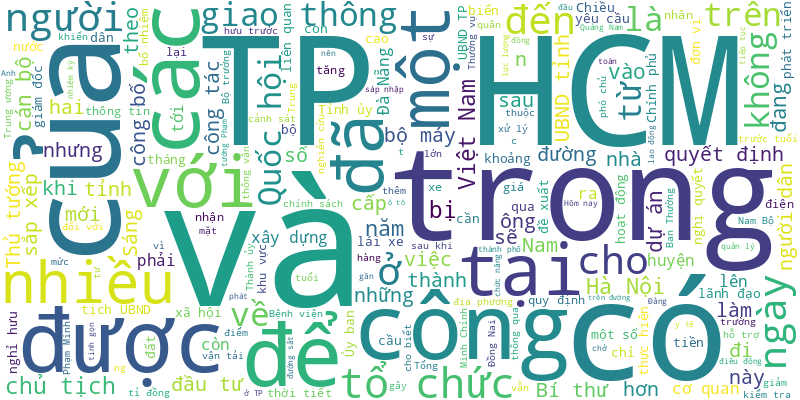
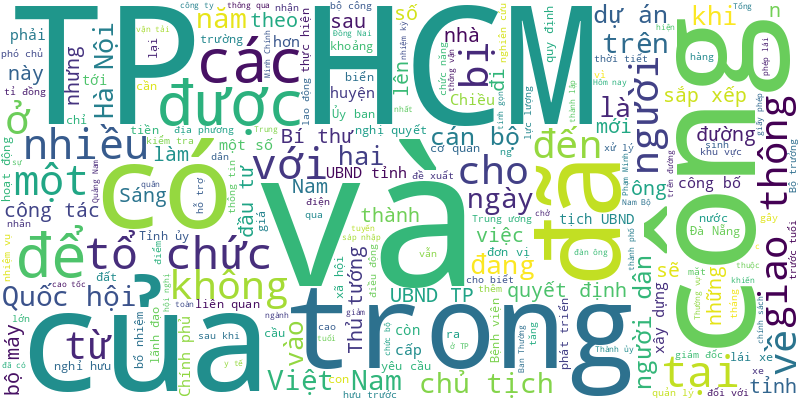
🍀 = 10%

diff --git a/README.md b/README.md
@@ -1,6 +1,21 @@
 # Tuoi Tre RSS 
 
 ## Giáo dục 
+- Sinh viên thi IELTS đạt 7.0 trường thưởng 2 triệu đồng và tăng dần đến mức cao nhất 20 triệu đồng nếu đạt 9.0.
+- Hôm nay (28-2), Sở Giáo dục và Đào tạo TP.HCM bắt đầu đi kiểm tra công tác thu chi, quản lý nhân sự ở các trường công lập. Trong đó, sở sẽ kiểm tra Trường THPT Gia Định đầu tiên.
+- Hơn 26 năm thành lập và phát triển, Trường Quốc tế Á Châu (Asian School) đã mang đến nền tảng giáo dục chất lượng, đáp ứng xu thế hội nhập toàn cầu.
+- Hai ngày hội tư vấn tuyển sinh - hướng nghiệp diễn ra đồng thời tại TP.HCM và Hải Phòng vào chủ nhật (2-3) sẽ tập trung giải đáp chi tiết những thay đổi về kỳ thi tốt nghiệp THPT và xét tuyển đại học, cao đẳng 2025.
+- Sau khi sắp xếp, tinh gọn, cơ cấu tổ chức của Bộ Giáo dục và Đào tạo giảm từ 23 xuống còn 18 đơn vị. Hiệu lực thi hành bắt đầu từ ngày 1-3.
+- Cô giáo chủ nhiệm một trường tiểu học tại TP Buôn Ma Thuột (tỉnh Đắk Lắk) dùng dây điện (đã rút lõi) đánh học sinh khiến phụ huynh bức xúc, khiếu nại đến ngành chức năng.
+- Năm 2025, Trường đại học Luật TP.HCM dự kiến sẽ tăng mạnh chỉ tiêu tuyển sinh đại học chính quy, mở thêm tối thiểu 3 ngành mới lĩnh vực kinh doanh và quản lý.
+- Đề thi văn của Sở Giáo dục và Đào tạo TP.HCM có chủ đề 'Bước khỏi lối mòn'. Đây là đề thi dành cho học sinh lớp 12 thi học sinh giỏi cấp thành phố 2025.
+- Hội đồng tuyển sinh Trường đại học Công nghệ TP.HCM (HUTECH) thông báo nhận hồ sơ xét tuyển trình độ thạc sĩ năm 2025 - đợt 1 với 16 chuyên ngành đến ngày 31-3.
+- Sở Giáo dục và Đào tạo TP.HCM vừa thành lập 5 đoàn kiểm tra về dạy thêm, học thêm trong và ngoài nhà trường.
+- Liên quan vụ vữa trần phòng học ở Trường tiểu học và THCS Nguyễn Trung Trực bất ngờ rớt khiến học sinh đang học chạy nháo nhào, cơ quan chức năng cho kiểm tra và sửa chữa những chỗ vữa trần bị hỏng, đảm bảo an toàn cho học sinh.
+- Sinh viên về các bản làng phía Bắc tìm hiểu chất liệu tự nhiên cũng như cách thức dệt vải của các nhóm dân tộc thiểu số.
+- Sau hơn 3 tuần nghỉ học vì phụ huynh phản đối việc chuyển từ trường lẻ lên trường chính, 154 học sinh đã trở lại trường.
+- Nếu không có phương pháp quy đổi điểm hợp lý, học sinh có điểm học bạ cao nhưng điểm thi thấp có thể được hưởng lợi
+- Trường đại học Công Thương TP.HCM bỏ phương thức tuyển thẳng theo đề án tuyển sinh riêng của trường và bổ sung thêm phương thức xét tuyển khác.
 - Trong bối cảnh phát triển mạnh mẽ của chuyển đổi số, lĩnh vực pháp lý không nằm ngoài làn sóng này nhưng vẫn giữ vai trò quan trọng cốt lõi.
 - Sở Giáo dục và Đào tạo TP.HCM vừa có kế hoạch đi kiểm tra 27 trường THPT ngoài công lập. Trong đó nhiều trường thuộc diện có yếu tố nước ngoài.
 - Ngày 26-2, Sở GD-ĐT Hà Nội công bố môn thi thứ ba tuyển sinh vào lớp 10 năm học 2025-2026 là ngoại ngữ.
@@ -987,23 +1002,87 @@
 - Nhóm 'Liêm Chính Khoa Học' trên Facebook với gần 100.000 thành viên đã hoạt động trở lại sau 4 ngày bất ngờ biến mất.
 - Phụ huynh đóng góp xã hội hóa, hiệu trưởng dùng hơn 122 triệu đồng làm bạt che nắng nhưng không công khai thu chi với phụ huynh.
 - Ngày 27-10, tại Hội trường Thành ủy TP.HCM diễn ra lễ trao Học bổng khuyến tài (học bổng 1&1) cho 318 sinh viên vượt khó học tập.
-- Giao lại điện thoại cho học sinh sau giờ học, cô giáo thấy hơn 100 thông báo, tin nhắn từ các hội, nhóm mạng xã hội khác nhau.
-- Nhóm 'Liêm Chính Khoa Học' trên Facebook với gần 100.000 thành viên vừa bất ngờ biến mất. Hiện tại, liên kết đến nhóm hiển thị thông báo 'Bạn hiện không xem được nội dung này'.
-- Trường Đại học Kinh tế - Tài chính TP.HCM (UEF) đã tổ chức lễ Khai giảng năm học 2024 - 2025 cho các chương trình cử nhân quốc tế.
-- Hiệu trưởng Trường THPT Tô Hiến Thành khẳng định thời điểm tuyển sinh lớp 10 'không phải trường không được giao chỉ tiêu tuyển sinh, mà là chưa được giao chỉ tiêu'.
-- Băng lửa, vượt khói, xịt hơi, phun nước… hàng trăm sinh viên bỗng chốc 'hóa thân' thành những chiến sĩ chữa cháy, cứu nạn cứu hộ.
-- Đó là khẳng định của Bộ trưởng Bộ Giáo dục và Đào tạo tại hội nghị ngày 25-10 tổng kết công tác xã hội hóa về kiên cố hóa trường, lớp học.
-- Trong khi Úc và Canada đang siết chặt số lượng sinh viên quốc tế, nhiều nước khác như Mỹ, New Zealand dự kiến vẫn giữ những quy định dễ thở với du học sinh.
-- Kết quả xác minh ban đầu của công an huyện Bình Chánh cho thấy không có camera quay lén trong nhà vệ sinh Trường THPT Tân Túc (huyện Bình Chánh, TP.HCM) như thông tin lan truyền trước đó.
-- Trước việc học sinh mua ốc mượn hồn bán quanh trường đem vào lớp chơi rồi bị thương ở tay, nhà trường và phòng giáo dục ở Đà Nẵng yêu cầu nắm thông tin, cảnh báo không chơi.
-- Nhiều trường đại học tại TP.HCM công bố lịch nghỉ Tết Ất Tỵ 3 - 4 tuần, có trường cho sinh viên học online một tuần trước và sau Tết.
-- Về 15 học sinh tiểu học xuất hiện triệu chứng giống ngộ độc, ngành y tế cho rằng không đủ cơ sở xác định vụ ngộ độc mà do hiệu ứng đám đông.
-- Công an đã mời hai thiếu niên ép một nam sinh ở huyện Nam Đàn, Nghệ An ăn đất trong đêm đến trụ sở để làm rõ vụ việc.
-- Chủ doanh nghiệp lắp bạt chống nắng cho Trường tiểu học Lý Trạch lý giải về việc hiệu trưởng kê khai giá bạt cao gấp 3 lần giá phụ huynh khảo sát.
-- Dư luận cho rằng quy định này không thực tế vì người hoạt động cách mạng trước 1945 không thể có con ở tuổi 15 để tuyển sinh vào lớp 10.
-- Giang Văn Tân - học sinh bị bại não bẩm sinh - vừa chính thức bước vào giảng đường Đại học RMIT.
 ![Edu](Edu.png)
 ## Thời Sự 
+- Khám nghiệm hiện trường, công an phát hiện người đàn ông tử vong sau tiếng nổ lớn nhưng bình gas bên cạnh thì còn nguyên.
+- Thời gian qua nhiều người dân ở Việt Nam trở thành nạn nhân của các đường dây lừa đảo xuyên biên giới. Đằng sau những phi vụ lừa đảo thành công là biết bao gia đình rơi vào cảnh khốn khó vì "tay trắng".
+- Dù gần đây đã có nhiều bản án thích đáng dành cho những kẻ côn đồ, ngông cuồng vô cớ hành hung người khác sau va chạm nhỏ nhưng vụ việc tương tự vẫn không thuyên giảm.
+- Chuyến thăm chính thức đầu tiên đến Việt Nam của Thủ tướng New Zealand Christopher Luxon chứng kiến một cột mốc quan trọng khi hai nước nâng cấp quan hệ lên Đối tác chiến lược toàn diện.
+- Phương án mở hướng tuyến mới cho cao tốc Bắc - Nam phía Tây sẽ ngắn hơn 13km so với phương án bám vào quốc lộ N2 hiện hữu, giảm gần 2.000 tỉ đồng tiền đầu tư.
+- Sở Xây dựng tỉnh Khánh Hòa kết thúc nhiệm vụ sát hạch, cấp, đổi giấy phép lái xe cơ giới đường bộ từ 0h ngày 1-3, chuyển giao cho lực lượng cảnh sát giao thông tỉnh này.
+- Tại kết luận số 126, Bộ Chính trị, Ban Bí thư giao Đảng ủy Chính phủ chủ trì, phối hợp với Ban Tổ chức Trung ương, Đảng ủy Quốc hội, các cấp ủy, tổ chức đảng liên quan nghiên cứu định hướng tiếp tục sắp xếp bỏ cấp hành chính trung gian (cấp huyện).
+- Một số tin tức đáng chú ý: Đề xuất phạt 3 - 5 triệu đồng nếu sử dụng thuốc lá điện tử, thuốc lá nung nóng; Hai 'đại gia' bất động sản bị phạt hoặc cưỡng chế thuế hàng chục tỉ đồng; Nhiều dịch bệnh truyền nhiễm tại TP.HCM đã được loại trừ...
+- Hôm nay 28-2, thời tiết Bắc Bộ sương mù, trưa trời hửng nắng. Nam Bộ ngày nắng, Trung Bộ mưa rào.
+- Vi phạm nồng độ cồn mức 0,459mg/l khí thở, nam tài xế cho biết sau trận chơi pickleball, anh được bạn mời 2 cốc bia, dù không uống được nhưng 'khó từ chối'.
+- Công an tỉnh Gia Lai có 14 trưởng phòng, trưởng công an huyện và 9 cấp phó nghỉ hưu, nghỉ công tác trong thời điểm sắp xếp tổ chức bộ máy ngành công an.
+- Trong vài ngày qua, hàng trăm tấn cá nuôi lồng bè của người dân ở hạ lưu sông Thu Bồn, xã Duy Nghĩa, huyện Duy Xuyên, tỉnh Quảng Nam chết bất thường, người dân thiệt hại rất lớn.
+- Ông Nguyễn Cảnh Toàn - phó chủ tịch Ủy ban Quản lý vốn nhà nước tại doanh nghiệp - vừa được điều động, luân chuyển, chỉ định về làm phó bí thư tỉnh Lạng Sơn.
+- Văn phòng Chính phủ vừa có các văn bản giới thiệu chữ ký của hai tân phó thủ tướng Chính phủ: Nguyễn Chí Dũng và Mai Văn Chính.
+- 700 cây cà phê trưởng thành của một gia đình ở huyện Krông Nô (tỉnh Đắk Nông) bất ngờ bị chặt phá. Người nhận là chủ vườn làm đơn kêu cứu, nghi người thân phá vườn cà phê này do mâu thuẫn tranh chấp đất đai.
+- Các nạn nhân đóng tiền để đi xuất khẩu lao động tại Dubai nhưng không ngờ vừa xuống sân bay thì đã bị chuyển cho các công ty người Trung Quốc và bị cưỡng bức lao động.
+- Hàng rào bảo vệ trên tuyến cao tốc Vân Phong - Nha Trang bị trộm cắp, ảnh hưởng đến tiến độ bàn giao sử dụng tuyến cao tốc này.
+- Bộ Quốc phòng cho biết phấn đấu hết năm 2030 đáp ứng khoảng 80% nhu cầu nhà ở công vụ cho người đủ điều kiện thuộc phạm vi quản lý, theo mục tiêu nghị quyết 1658 của Quân ủy Trung ương về công tác hậu cần quân đội.
+- Chiều 27-2, Chủ tịch UBND TP Hà Nội Trần Sỹ Thanh đã chủ trì hội nghị nghe báo cáo kế hoạch triển khai các dự án đầu tư xây dựng cầu Tứ Liên và đường dẫn hai đầu cầu; xây dựng cầu Trần Hưng Đạo, cầu Ngọc Hồi và đường dẫn hai đầu cầu.
+- Sau thời gian xây dựng, công trình hầm chui Nguyễn Văn Linh (quận 7, TP.HCM) đã cơ bản hoàn thành các hạng mục theo thiết kế và chính thức đưa vào khai thác từ ngày 24-1-2025.
+- Một chú khỉ con quý hiếm không may mắc bẫy của thợ săn thú rừng và bị thương. May mắn thay, một nhân viên khu du lịch sinh thái đã phát hiện và kịp thời giải cứu trong lúc tuần tra rừng.
+- Sở Tài nguyên và Môi trường thành phố Huế vừa công bố kết quả quan trắc chất lượng nước biển ven bờ sau sự cố hàng chục tấn dầu vón cục trôi dạt vào bờ biển huyện Phú Lộc.
+- Chiều 27-2, Công an tỉnh Thanh Hóa tổ chức lễ chuyển giao, tiếp nhận 5 chức năng, nhiệm vụ của các sở, ngành về Công an tỉnh quản lý và phục vụ người dân trong thời gian tới.
+- Chủ tịch Quốc hội Trần Thanh Mẫn đề nghị các đảng bộ trực thuộc Quốc hội sớm nghiên cứu, để khi Trung ương quyết định nội dung cụ thể sẽ không bị động.
+- Bộ trưởng Bộ Công an đã có quyết định về việc giải thể công an 7 quận, huyện ở Đà Nẵng.
+- Đó là đề nghị tặng thưởng Huân chương Quân công, Huân chương Bảo vệ Tổ quốc và Huân chương Lao động các hạng đối với 35 tập thể.
+- Tổng Bí thư Tô Lâm lưu ý phải đánh giá thật khách quan để định vị rõ chúng ta đang ở đâu, trình độ phát triển đang ở mức độ nào, có những giải pháp đúng để triển khai.
+- Theo quy định 262 được Tổng Bí thư Tô Lâm ký ban hành, Ủy ban Kiểm tra Trung ương tăng từ 19 đến 21 ủy viên chuyên trách lên 23 đến 25 ủy viên, trong đó có 2-3 ủy viên kiêm nhiệm.
+- Chủ tịch UBND TP.HCM Nguyễn Văn Được yêu cầu mỗi cán bộ, đảng viên đặt khát vọng cháy bỏng với trái tim nóng và cái đầu lạnh trong thực hiện mỗi quyết sách, mọi hành động để đưa thành phố phát triển hai con số.
+- Ông Nguyễn Trọng Nghĩa cùng đoàn công tác đã đến thăm và chúc mừng Bệnh viện Quân y 120 đóng trên địa bàn thành phố Mỹ Tho.
+- Bất ngờ khi nhặt được một túi ni lông đen chứa 106 triệu đồng ở ven đường, người phụ nữ Đà Nẵng nhanh chóng nộp công an. Tài sản sau đó đã được trả lại cho người đàn ông đã đánh rơi.
+- Lực lượng cứu nạn, cứu hộ và người dân đã tìm được thi thể người đàn ông thả cá phóng sinh bị nước cuốn mất tích trên sông Krông Ana (tỉnh Đắk Lắk).
+- Tập trung điều tra, xử lý dứt điểm các vụ án, vụ việc liên quan đến Tập đoàn Thuận An, Công ty AIC và các vụ án, vụ việc nghiêm trọng, phức tạp, dư luận quan tâm.
+- Liên quan đến vụ chú bảo vệ ở phố đi bộ Nguyễn Huệ (quận 1, TP.HCM) bị nam thanh niên dắt chó đánh vào vùng đầu, nạn nhân đã phải khâu vết thương vùng đầu và bàn tay.
+- Chiếc đờn kìm 'khủng' với chiều cao 4,1m, ngang khoảng 3,5m đang được hoàn thiện và sẵn sàng trưng bày tại Festival nghề muối Việt Nam - Bạc Liêu lần thứ nhất, diễn ra vào những ngày đầu tháng 3.
+- Chiều 27-2, Công an tỉnh Bình Thuận tổ chức lễ bàn giao chức năng quản lý nhà nước về cai nghiện ma túy và quản lý sau cai nghiện từ Sở Lao động - Thương binh và Xã hội tỉnh.
+- Phản ánh đến Tuổi Trẻ Online ngày 27-2, một số người dân cho biết kênh Chiến Lược (phường Bình Trị Đông, quận Bình Tân, TP.HCM) có nhiều rác dồn ứ bốc mùi hôi.
+- Đó là một ngày 27-2 đặc biệt tại Bệnh viện Ung Bướu TP.HCM, khi đội ngũ y bác sĩ hóa thân thành 'ca sĩ, nhạc công'.
+- Cô giáo chủ nhiệm một trường tiểu học tại TP Buôn Ma Thuột (tỉnh Đắk Lắk) dùng dây điện (đã rút lõi) đánh học sinh khiến phụ huynh bức xúc, khiếu nại đến ngành chức năng.
+- Hàng loạt cán bộ chủ chốt tỉnh Bà Rịa - Vũng Tàu được bầu, bổ nhiệm, điều động sau sắp xếp, tinh gọn bộ máy.
+- Chiều 27-2, Sở Quy hoạch - Kiến trúc TP.HCM và UBND TP Thủ Đức tổ chức lễ công bố thi tuyển quốc tế ý tưởng quy hoạch công viên Lịch sử - Văn hóa dân tộc tại TP Thủ Đức.
+- Ngoài HEPZA, Văn phòng UBND TP, Công an TP thì dẫn đầu chỉ số chuyển đổi số.
+- Các doanh nghiệp thép Việt đang đứng ngồi không yên khi lượng thép mạ giá rẻ từ Trung Quốc đổ bộ vào thị trường với tốc độ chóng mặt.
+- 4 thanh niên tại Quảng Bình thuê một phòng trọ làm kho để buôn bán ma túy. Cả 4 người này vừa bị tòa tuyên tử hình.
+- Xe tải đang chở hàng hóa từ TP.HCM đến An Giang thì bất ngờ bị cháy rụi. Tài xế may mắn thoát nạn.
+- Nguyên tắc cơ bản khi bàn giao nhiệm vụ sát hạch, cấp giấy phép lái xe là không làm gián đoạn, không ảnh hưởng đến các hoạt động của người dân, doanh nghiệp.
+- Sáng 27-2, Chủ tịch Quốc hội Trần Thanh Mẫn đã tham dự lễ kỷ niệm 70 năm Ngày Thầy thuốc Việt Nam tại Bệnh viện Hữu nghị (Hà Nội).
+- Các phường, xã ở thị xã Cửa Lò và huyện Nghi Lộc, Nghệ An mới được sáp nhập vào thành phố Vinh không được giảm phí qua trạm thu phí cầu Bến Thủy 1.
+- Ngày 27-2, Bộ Nông nghiệp và Phát triển nông thôn tổ chức hội nghị phòng chống khai thác hải sản bất hợp pháp, không báo cáo và không theo quy định (IUU).
+- Bộ Chính trị điều động, phân công, bổ nhiệm Bí thư Tỉnh ủy, Chủ tịch HĐND tỉnh Tây Ninh Nguyễn Thành Tâm giữ chức Phó trưởng Ban Tổ chức Trung ương.
+- Liên quan vụ vữa trần phòng học ở Trường tiểu học và THCS Nguyễn Trung Trực bất ngờ rớt khiến học sinh đang học chạy nháo nhào, cơ quan chức năng cho kiểm tra và sửa chữa những chỗ vữa trần bị hỏng, đảm bảo an toàn cho học sinh.
+- Khi đang trên đường đến trường, thầy giáo dạy thể dục tại một trường tiểu học trên địa bàn tỉnh Khánh Hòa bị tai nạn giao thông, tử vong.
+- Hội thảo khoa học quốc gia về vai trò của 'Đội quân tóc dài' được tổ chức tại Bến Tre và kết nối trực tuyến đến 63 điểm cầu cả nước.
+- Thủ tướng Chính phủ giao chỉ tiêu hoàn thành nhà ở xã hội trong năm 2025 và các năm tiếp theo đến năm 2030 để các địa phương bổ sung vào chỉ tiêu phát triển kinh tế - xã hội.
+- "Nếu trong bệnh viện thành lập Hội Chữ thập đỏ sẽ gia tăng giá trị về hoạt động trong khám, chữa bệnh; gia tăng thêm chất lượng quản lý và điều trị bệnh viện".
+- Đó là báo cáo của BS Trần Văn Sóng - giám đốc Bệnh viện Nhân dân 115 trong buổi gặp mặt Phó chủ tịch UBND TP.HCM Trần Thị Diệu Thúy nhân Ngày Thầy thuốc Việt Nam năm 2025, trưa 27-2.
+- Sáng 27-2, UBND TP Hà Nội tổ chức hội nghị trực tuyến giao ban công tác xây dựng cơ bản quý 1-2025 với nội dung trọng tâm về đôn đốc, đẩy mạnh giải ngân vốn đầu tư công.
+- Sáng 27-2, tỉnh Đồng Nai đã tổ chức hội nghị công bố sắp xếp tổ chức bộ máy, sáp nhập sở, điều động, bổ nhiệm nhiều giám đốc sở.
+- Thủ tướng New Zealand đã có những trải nghiệm đặc biệt khi cùng Thủ tướng Phạm Minh Chính đến thăm Văn Miếu - Quốc Tử Giám.
+- Chính phủ vừa ban hành nghị định quy định chức năng, nhiệm vụ, quyền hạn và cơ cấu tổ chức của Bộ Công Thương.
+- Khi vụ việc quyên góp từ thiện gây tranh cãi, TikToker Phạm Thoại hẹn giờ lên livestream sao kê. Đó là trách nhiệm minh bạch hay áp lực từ dư luận?
+- Liên quan đến vụ lấn chiếm và ngang nhiên cho thuê lòng đường, vỉa hè ở nhiều nơi tại TP.HCM, UBND TP.HCM vừa có chỉ đạo xử lý khẩn.
+- Các bị cáo đưa người đi lao động trái phép ở Dubai và khi họ đến nơi thì bị sang tay cho các công ty người Trung Quốc, bị cưỡng bức lao động, ép phải quay lại lừa đảo chính người Việt Nam.
+- Sau hơn 3 tuần nghỉ học vì phụ huynh phản đối việc chuyển từ trường lẻ lên trường chính, 154 học sinh đã trở lại trường.
+- Có một người duy nhất trong 75 cán bộ lãnh đạo, quản lý ở Đắk Nông không hoàn thành nhiệm vụ năm 2024.
+- Từ ngày 1-3, nhiệm vụ bảo đảm an ninh hàng không chính thức do Bộ Công an chỉ đạo tổ chức thực hiện.
+- Sau sự việc nữ nhân viên bán thuốc bị người đàn ông hành hung, FPT Long Châu đã kiến nghị cơ quan chức năng tiến hành xác minh sự việc, xử lý nghiêm hành vi của người đàn ông theo quy định của pháp luật.
+- 11 ngư dân Bình Định gặp nạn trên tàu cá đang khai thác thủy sản ở Phú Yên được lực lượng chức năng tỉnh này ứng cứu kịp thời, đưa vào bờ an toàn.
+- Khoảng 8h sáng nay (27-2), một phòng trà trên đường Nguyễn Tất Thành (TP Đà Nẵng) bốc cháy, khiến nhiều tài sản như bàn ghế, đồ pha chế bị thiêu rụi.
+- Việc ăn uống ở sân bay là tự nguyện. Niêm yết giá rõ ràng là một chuyện, nhưng giá cả có tương xứng với chất lượng, phục vụ lại là một chuyện khác.
+- Sáng 27-2, UBND quận Bình Thạnh (TP.HCM) tổ chức lễ khởi công dự án nâng cấp, mở rộng đường Chu Văn An.
+- Phó bí thư thường trực Thành ủy TP.HCM Nguyễn Thanh Nghị được bổ sung và giữ nhiệm vụ phó trưởng Ban Chỉ đạo phòng, chống tham nhũng TP.HCM.
+- Bộ Tư pháp vừa bàn giao nhiệm vụ quản lý nhà nước về lý lịch tư pháp và thực hiện dịch vụ công cấp phiếu lý lịch tư pháp sang Bộ Công an.
+- Những quy định cụ thể về các chức vụ cán bộ, công chức cấp xã và các chế độ nghỉ hưu trước tuổi, thôi việc họ sẽ được hưởng theo nghị định 178.
+- Một siêu thị điện thoại lớn giữa trung tâm TP Đồng Hới (Quảng Bình) xảy ra cháy lớn. Hiện lực lượng chức năng đang nỗ lực dập lửa và ngăn cháy lan.
+- Trên mạng xã hội xuất hiện hai đoạn clip ghi lại cảnh nhân viên nhà thuốc Long Châu bị một người đàn ông tấn công gây xôn xao dư luận.
+- Người dân có nhu cầu cấp, đổi bằng lái xe có thể làm trực tiếp tại công an cấp xã hoặc trực tuyến trên môi trường mạng từ ngày 1-3.
+- Thực hiện rà soát, xác định chính xác các văn bản quy phạm pháp luật chịu sự tác động của việc sắp xếp tổ chức bộ máy.
+- AI (trí tuệ nhân tạo) được xem như "cánh tay nối dài" của bác sĩ và đang góp sức hiệu quả vào quá trình chẩn đoán, điều trị, phẫu thuật cứu sống hàng ngàn ca bệnh hiểm nghèo thoát khỏi án tử.
 - Tính đến tháng 2-2025, Việt Nam có quan hệ Đối tác chiến lược toàn diện với 10 quốc gia, gồm: Trung Quốc, Liên bang Nga, Ấn Độ, Hàn Quốc, Mỹ, Nhật Bản, Úc, Pháp, Malaysia và New Zealand.
 - Đại diện UBND phường An Phú cho biết sẽ lắp camera dưới cầu đi bộ metro An Phú và Thảo Điền để giám sát, xử lý hành vi vứt rác không đúng quy định.
 - Ngày 26-2, Thủ tướng Phạm Minh Chính và Thủ tướng New Zealand Christopher Luxon cùng công bố việc hai nước thiết lập Đối tác chiến lược toàn diện. Đây là quốc gia thứ 10 Việt Nam có cấp quan hệ này.
@@ -1035,6 +1114,7 @@
 - Dự báo từ ngày mai 27-2, thời tiết Hà Nội và các tỉnh Đông Bắc Bộ hửng nắng về trưa và chiều, chấm dứt chuỗi ngày âm u, mưa phùn, nồm ẩm kéo dài.
 - 1 ngư dân bị đột quỵ não khi đang khai thác hải sản được quân y đảo Trường Sa tiếp nhận cấp cứu.
 - Hàng loạt giám đốc sở và tương đương tại Bình Dương được điều động, bổ nhiệm hoặc cho nghỉ hưu sớm khi sáp nhập sở, tinh gọn bộ máy.
+- Mưa trái mùa khiến người trồng sầu riêng, cà phê tại Đắk Lắk lo lắng.
 - Khi phố lên đèn cũng là lúc những tấm bạt được trải ra, phủ kín lối đi khu vực hồ Con Rùa, trước Bưu điện TP.HCM để 'xí' chỗ buôn bán.
 - Thủ tướng vừa điều động, bổ nhiệm ông Lê Hải Bình, tổng biên tập Tạp chí Cộng Sản, giữ chức thứ trưởng Bộ Văn hóa, Thể thao và Du lịch.
 - Lễ đón Thủ tướng New Zealand Christopher Luxon diễn ra tại Phủ Chủ tịch, đánh dấu chuyến thăm chính thức đầu tiên của ông tới Việt Nam.
@@ -1924,86 +2004,6 @@
 - Sáng 10-2, Tổng Bí thư Tô Lâm dẫn đầu đoàn công tác đến thăm và kiểm tra thực tế tại Lữ đoàn tên lửa 490, Binh chủng Pháo binh, tỉnh Hải Dương.
 - Giải thưởng Sáng tạo châu Á của Quỹ toàn cầu Hitachi vừa công bố các nhà khoa học khu vực ASEAN đoạt giải năm 2024, trong đó có đến 6 nhà khoa học đoạt giải thưởng này.
 - Sau hơn một tuần chất lượng không khí tại Hà Nội duy trì ở mức tốt và trung bình, đến ngày 10-2, tình trạng ô nhiễm lại gia tăng, chuyển sang mức xấu trở lại.
-- Mạng xã hội lan truyền đoạn clip cán bộ cảnh sát giao thông 'khống chế' nam tài xế, hiện cán bộ trong clip đã tường trình sự việc, lực lượng chức năng đang xác minh làm rõ, xử lý vụ việc.
-- Đà Nẵng tổ chức công bố các quyết định của Ban Thường vụ Thành ủy về công tác cán bộ với hàng loạt nhân sự.
-- Theo thông tin từ Ban Tuyên giáo và Dân vận Trung ương, có 28 cán bộ thuộc ban tự nguyện xin nghỉ hưu sớm, nghỉ công tác, thôi việc.
-- Sau hơn 2 ngày dạt đến khu vực biển thị xã Đông Hòa (Phú Yên), tàu cá Đài Loan đã bị sóng lớn đánh gãy làm đôi vào chiều tối 9-2.
-- Chủ tịch Quốc hội Trần Thanh Mẫn nêu rõ tiếp tục triển khai sắp xếp bộ máy theo kết luận của Trung ương, bảo đảm không ngắt quãng, ảnh hưởng đến công việc.
-- Giá lúa đang giảm khoảng 2.000 đồng/kg so với vụ đông xuân năm trước và khoảng hơn 1.000 đồng/kg so với vụ lúa hè thu 2024, khiến nông dân tại tỉnh Tiền Giang - nơi có diện tích xuống giống khoảng 42.200 héc ta lúa đông xuân, kém vui.
-- Tỉnh Lâm Đồng sẽ hoàn thành việc chi trả thưởng theo nghị định 73 trong tháng 3-2025. Ngoài giáo viên, nhiều lực lượng, ngành nghề khác nhau cùng được thưởng.
-- Ủy ban Kiểm tra Tỉnh ủy Lào Cai quyết định không thi hành kỷ luật Đảng đối với hiệu trưởng, hiệu phó Trường cao đẳng Lào Cai do đã kịp thời báo cáo, tự giác nhận khuyết điểm và không hưởng lợi từ số tiền sai phạm của trung tâm sát hạch lái xe.
-- Trước tình hình cúm mùa diễn biến phức tạp ở nhiều nước, TP.HCM đã khuyến cáo người bệnh khi đến cơ sở y tế thăm khám phải thực hiện nghiêm việc đeo khẩu trang.
-- Khu vực từ ngã tư Hàng Xanh đến cầu Bình Triệu - cửa ngõ quan trọng của TP.HCM, đề xuất phát triển theo mô hình TOD (phát triển đô thị gắn kết giao thông công cộng). Đây được xem là giải pháp giảm kẹt xe, chỉnh trang đô thị.
-- Viện Lowy (Úc) nhận định Việt Nam đang mang sức mạnh của một quốc gia tầm trung với ảnh hưởng ngoại giao ngày càng vươn xa, có vai trò trong các vấn đề khu vực và thế giới, là tiếng nói không thể thiếu tại các tổ chức và diễn đàn đa phương.
-- Ông Phùng Phú Phong - giám đốc Sở Xây dựng Đà Nẵng, được chỉ định giữ chức bí thư Quận ủy Sơn Trà.
-- Sau 7 năm thi công, dự án xử lý triệt để ô nhiễm môi trường do rác thải sinh hoạt tại các khu vực trọng điểm trên địa bàn tỉnh Thừa Thiên Huế (nay là TP Huế) vẫn chưa thể hoàn thành vì đơn vị thi công chậm tiến độ.
-- Các lực lượng chức năng Hải Phòng đang nỗ lực tìm kiếm người nghi nhảy cầu Bính, để lại ô tô trên cầu.
-- Dự án xây dựng tượng đài “Chiến thắng Ninh Thuận mùa xuân 1975” dự kiến có tổng kinh phí hơn 67 tỉ đồng, cao 6m, xây trên diện tích hơn 5ha.
-- Người dân TP Phú Quốc (Kiên Giang) hiện rất phấn khởi khi giá hồ tiêu nhích lên cao, dao động từ 200.000-300.000 đồng/kg, tăng 20.000-50.000 đồng/kg (tùy loại) so với trước đây.
-- Một nghị quyết về xây dựng trung tâm tài chính khu vực tại TP Đà Nẵng và trung tâm tài chính quốc tế toàn diện tại TP.HCM sẽ được Chính phủ trình Quốc hội ban hành ở kỳ họp tháng 5-2025.
-- Ngày 10-2, Khu quản lý đường bộ III - Cục Đường bộ Việt Nam cho hay đơn vị này sẽ sửa chữa hư hỏng mặt đường quốc lộ 14 đoạn qua đèo Lò Xo trong tháng 4-2025.
-- Hai giám đốc sở ở Đà Nẵng xin nghỉ hưu trước tuổi là giám đốc Sở Thông tin - Truyền thông, giám đốc Sở Tài chính TP Đà Nẵng đã chia sẻ lý do làm đơn.
-- Dự Luật Tổ chức chính quyền địa phương (sửa đổi) sẽ được trình Quốc hội xem xét tại kỳ họp bất thường (dự kiến khai mạc ngày 12-2) đề xuất không tổ chức HĐND tại quận, phường, xã thuộc đô thị.
-- Đoàn xe của Thủ tướng Phạm Minh Chính từ Quảng Ngãi về Đà Nẵng lúc 22h và bắt tay vào làm việc với Đà Nẵng để giải quyết các đề xuất, kiến nghị giúp thành phố triển khai hiệu quả các cơ chế, chính sách đặc thù.
-- Ngày 10-2, tại hội nghị về công tác cán bộ, Tỉnh ủy Đồng Tháp đã công bố quyết định của Ban Bí thư Trung ương Đảng cho ông Phạm Thiện Nghĩa - chủ tịch UBND tỉnh Đồng Tháp - nghỉ hưu trước tuổi theo nguyện vọng.
-- Rạng sáng 10-2, chùa Vẽ - ngôi chùa 300 tuổi thuộc phường Thọ Xương, thành phố Bắc Giang (tỉnh Bắc Giang) - bất ngờ bốc cháy. Gian tiền đường với hậu cung bị thiêu rụi.
-- Trong năm 2025, TP.HCM sẽ phủ kín mạng 5G, ứng dụng AI quản trị TP, mỗi người dân trên địa bàn TP sẽ là một công dân số kết nối trực tiếp với chính quyền qua ứng dụng di động...
-- Một số tin tức đáng chú ý: Sắp có ngân hàng đầu tiên ở Việt Nam có 2 triệu tỉ đồng tiền gửi khách hàng; Ủy ban Thường vụ Quốc hội cho ý kiến về dự án đường sắt trị giá hơn 8 tỉ USD; Cảnh báo thông tin sai về biến thể COVID-19...
-- Hôm nay 10-2, thời tiết miền Bắc vẫn duy trì rét đậm dù nhiệt độ có tăng lên đôi chút, miền Nam nhiệt độ có xu hướng tăng lên so với hôm qua.
-- Một đôi nam nữ sắp làm đám cưới đang di chuyển trên xe máy thì bị xe tải chở heo ôm cua cán trúng. Vụ tai nạn khiến một người tử vong, người còn lại nguy kịch.
-- Thủ tướng Phạm Minh Chính đề nghị Hòa Phát tiếp tục nghiên cứu sản xuất thép chất lượng cao, đặc biệt sản xuất ray thép phục vụ đường sắt cao tốc Bắc - Nam, các tuyến đường sắt kết nối với Trung Quốc, đường sắt đô thị trong thời gian tới.
-- Trao đổi với Tuổi Trẻ Online tối 9-2, anh Trần Đăng Dân (ngụ huyện Bình Chánh, TP.HCM) cho biết đã trình báo Công an xã Vĩnh Lộc A (huyện Bình Chánh) về việc mất liên lạc với ba của anh là ông Trần Vệ (66 tuổi, quê tỉnh Quảng Bình).
-- Cán bộ cảnh sát giao thông Tân Túc thuộc Phòng cảnh sát giao thông TP.HCM có lời lẽ không chuẩn mực với người vi phạm, sau đó có clip xuất hiện trên mạng xã hội đã bị tạm đình chỉ công tác.
-- Trong lúc tìm kiếm người mất tích, một xuồng cao tốc của Cảnh sát biển Hàn Quốc cũng bị lật úp khiến  6 người rơi xuống biển nhưng may mắn được cứu lập tức.
-- Với những thành quả đạt được trong năm 2024, Thủ tướng biểu dương tỉnh Quảng Ngãi. Những vấn đề chưa được, Thủ tướng yêu cầu "phân công rõ người, rõ việc, rõ trách nhiệm". Từ đó có giải pháp cải thiện.
-- Chuyên gia cho rằng ô tô, xe máy di chuyển trong cung đường tắc khiến khí thải sinh ra nhiều hơn so với chạy tốc độ cao. Đáng chú ý hiện nay Hà Nội có hơn 7 triệu xe máy, khoảng 600.000 ô tô và bụi đường đã tác động lên chất lượng không khí.
-- Năm 2025, việc tiến hành tuyển chọn và gọi công dân nhập ngũ được thực hiện trong một đợt. Theo kế hoạch, lễ giao nhận quân năm 2025 tại các địa phương diễn ra trong 3 ngày: từ 13 đến hết 15-2.
-- Ủy ban Kiểm tra Thành ủy Đà Nẵng đã thi hành kỷ luật nguyên bí thư chi bộ, nguyên cục trưởng Cục Thi hành án dân sự Đà Nẵng.
-- Các cơ chế, chính sách đặc biệt chính là tiền đề, nền tảng để hai thành phố lớn nhất của cả nước bắt đầu cuộc cách mạng xây dựng mạng lưới metro.
-- Do rãnh áp thấp hoạt động nên thời tiết biển TP.HCM có gió mạnh kèm mưa dông, các hoạt động trên vùng biển này cần cẩn trọng.
-- Thủ tướng phê bình, yêu cầu các bộ và 30 địa phương chưa gửi báo cáo kiểm điểm xác định rõ trách nhiệm cá nhân báo cáo Thủ tướng Chính phủ trước ngày 17-2.
-- Theo nghiên cứu của WHO, hơn 60.000 người tử vong năm 2016 do bệnh tim, đột quỵ, ung thư phổi, phổi tắc nghẽn mạn tính, viêm phổi ở Việt Nam đều có liên quan tới ô nhiễm không khí.
-- Trong tờ trình đề nghị sửa toàn diện Luật Thuế thu nhập cá nhân, Bộ Tài chính kiến nghị giảm bậc thuế và nới khoảng cách giữa các bậc trong biểu thuế lũy tiến từng phần đối với thu nhập từ tiền công, tiền lương.
-- Ông Chu Văn An - phó giám đốc phụ trách Sở Giao thông vận tải Khánh Hòa - cho biết trên quốc lộ 1 xảy ra vụ tai nạn xe khách và ô tô.
-- Thủ tướng Phạm Minh Chính đã đến kiểm tra và chỉ đạo thi công dự án cao tốc Quảng Ngãi - Hoài Nhơn và đường ven biển Dung Quất - Sa Huỳnh.
-- Thị ủy Tân Châu (An Giang) đã nâng mức kỷ luật từ cảnh cáo lên cách chức trung tá Trần Tấn Tài - phó trưởng Công an thị xã Tân Châu.
-- Hùng sử dụng đoạn clip nhạy cảm của một cô gái 20 tuổi lan truyền trên mạng để tống tiền thì bị công an bắt quả tang.
-- Cảnh sát giao thông toàn quốc sẽ kiểm tra, xử lý nghiêm các trường hợp vi phạm liên quan biển số xe.
-- Liên quan vận động viên đua ghe ở Quảng Nam bị đuối nước tử vong do bị lật ghe, nhiều bạn đọc thắc mắc vận động viên đua ghe sao đuối nước?
-- TP.HCM ngày càng nhiều giao lộ khác mức - nút giao nhiều tầng với cầu vượt, hầm chui và các nhánh đường kết nối.
-- Cảnh sát giao thông Hà Nội khẳng định pháp luật không cấm việc người dân dừng xe máy để mặc áo mưa.
-- Nữ sinh viên năm 4 Đại học Kinh tế TP.HCM bất ngờ mất tích từ trước Tết, vừa về đến sân bay Tân Sơn Nhất (TP.HCM) sáng nay 9-2.
-- Trong lúc tranh tài trên sông Đồng Nai, một ghe đua bị lật khiến 12 vận động viên rơi xuống nước.
-- Đám cưới phải rước dâu bằng xuồng, gặp ngay nước ròng, cả đoàn đưa dâu xắn quần qua đầu gối, hì hục đẩy cô dâu ngồi trên xuồng vào cồn.
-- Phú Quốc cho biết dự kiến ngày 14-2, tàu du lịch biển chở khoảng 2.000 khách nước ngoài hạng sang sẽ cập cảng hành khách quốc tế Phú Quốc.
-- Rất nhiều những vấn đề nóng hổi được bạn đọc quan tâm, phản ánh đến Tuổi Trẻ tuần qua. Tòa soạn đã vào cuộc tìm hiểu, phản ánh các vụ việc.
-- Luật sư và chuyên gia giao thông cho rằng dù có cơ sở pháp lý nhưng Hà Nội nên cân nhắc khi quyết định tăng nặng mức xử phạt vi phạm.
-- Tháng 1-2025, Cơ quan cảnh sát điều tra Công an tỉnh Phú Yên đã khởi tố vụ án, khởi tố bị can, cấm đi khỏi nơi cư trú với ông Thọ.
-- Tuần này không khí lạnh vẫn chi phối ba miền của nước ta, hình thái này ở mỗi khu vực tạo nên một kiểu thời tiết khác nhau.
-- Từ tháng 11-2024 đến tháng 1-2025, nhiều ngày tại nhiều điểm quan trắc ở Hà Nội cho thấy chất lượng không khí xấu, rất kém.
-- Công an tỉnh Đắk Nông đang điều tra vụ chặt hạ gần 600 cây rừng dọc đường tuần tra biên giới thuộc huyện Tuy Đức.
-- Chiếc xe máy kẹp 3 không làm chủ được tay lái, lao vào gốc cây trên đường Võ Nguyên Giáp (Lào Cai), hậu quả cả 3 người chết.
-- Nhiều bạn đọc ủng hộ đề xuất tổ chức một chiều đường Cộng Hòa và Phan Thúc Duyện nối dài (quận Tân Bình, TP.HCM) để giảm kẹt xe.
-- Bộ trưởng Bộ Giao thông vận tải ban hành công điện yêu cầu các đơn vị tăng cường công tác kiểm tra, khắc phục các tồn tại.
-- Các nạn nhân được điều trị tại bệnh viện, trung tâm y tế hai tỉnh Bình Định, Phú Yên đã ổn định, nhiều trường hợp dự kiến xuất viện sớm.
-- Thông thường sau Tết thời tiết TP.HCM và Nam Bộ bắt đầu bước vào giữa mùa khô, nhiệt độ luôn ở mức cao. Tuy nhiên năm nay khác.
-- Tin tức đáng chú ý: Thông qua đề nghị xây dựng nghị quyết thí điểm cơ chế đặc thù phát triển đường sắt đô thị tại Hà Nội, TP.HCM; Ai được miễn giảm tiền thuê đất?...
-- Không khí lạnh đã tràn tới các tỉnh Nam Trung Bộ và tiếp tục khuếch tán vào phía Nam. Bắc Bộ thời tiết rét đậm, rét hại; Nam Bộ sáng se lạnh.
-- Một tàu cá Đài Loan được Bộ đội biên phòng tỉnh Phú Yên phát hiện đang trôi dạt trên vùng biển thị xã Đông Hòa, trên tàu có 4 thuyền viên chờ được ứng cứu.
-- Đó là băn khoăn của Thủ tướng Phạm Minh Chính tại buổi làm việc với lãnh đạo tỉnh Quảng Nam về tình hình kinh tế, xã hội, giải quyết các kiến nghị, đề xuất.
-- Nam tài xế 31 tuổi, chạy xe dịch vụ được phát hiện chết trong ô tô đậu ven đường giữa trung tâm thành phố Biên Hòa, Đồng Nai.
-- Hàng loạt tỉnh gồm Hà Tĩnh, Bắc Giang, Sơn La, Quảng Bình… và các bộ như Quốc phòng, Thông tin và Truyền thông, Y tế… cùng đề nghị nâng mức giảm trừ gia cảnh. Mức cao nhất được kiến nghị là 18 triệu đồng/tháng.
-- Công ty cổ phần Đầu tư hạ tầng kỹ thuật TP.HCM (CII) sẽ sử dụng nguồn vốn của mình để thuê đơn vị tư vấn hoàn chỉnh ý tưởng làm TOD từ Hàng Xanh đến chân cầu Bình Triệu.
-- Liên quan đến sự chênh lệch số liệu thống kê người bị thương trong vụ lật xe khách ở Phú Yên, các đơn vị chức năng đã có lời giải thích.
-- Một cây mận bình thường đơm hoa, kết trái thì tỉ lệ đậu quả là 100%, nhưng cây hoa mận nào bị khách rung sẽ bị giảm 80%.
-- Bộ Quốc phòng đề xuất máy bay không người lái có trọng lượng cất cánh tối đa từ 0,25kg trở lên và phương tiện bay khác phải đăng ký trước khi đưa vào sử dụng.
-- Tài xế trong vụ tai nạn xe khách khiến 3 người tử vong ở Phú Yên đã bị cơ quan chức năng giữ người trong trường hợp khẩn cấp.
-- Giai đoạn 2020 - 2025, TP.HCM có 75 dự án công viên ưu tiên đầu tư xây dựng nhưng đến nay chỉ có 8 dự án được bố trí vốn.
-- Đến nay tỉnh Quảng Nam có 443 người có nguyện vọng và có đơn xin nghỉ hưu trước tuổi, nghỉ thôi việc, trong đó 23 người diện Ban Thường vụ Tỉnh ủy quản lý.
-- Tài xế Phạm Quốc Huy khai chỉ có giấy phép lái xe hạng C. Như vậy không đủ điều kiện để lái xe khách.
-- Nhiều khỉ đuôi lợn, rùa, nai, trăn gấm quý hiếm nuôi nhốt tại công viên Diên Hồng, TP Pleiku (Gia Lai) được bàn giao cho cơ quan kiểm lâm để thả về tự nhiên.
-- Quốc lộ 14 qua đèo Lò Xo giữa hai tỉnh Quảng Nam và Kon Tum tiếp tục xuất hiện nhiều điểm bong tróc, gây nguy hiểm cho xe cộ qua lại.
-- Đây là thông tin Chủ tịch UBND TP.HCM nêu ra tại phiên họp Hội đồng Tư vấn triển khai thực hiện nghị quyết 98.
 ![New](News.png)
 ## Nhịp sống số 
 - 'Bây giờ AI sáng tạo nội dung khá rồi, dù không hay nhưng có thể nói là rất đa dạng và nhanh chóng. Vậy em nghĩ em làm gì để cạnh tranh với AI?'.
